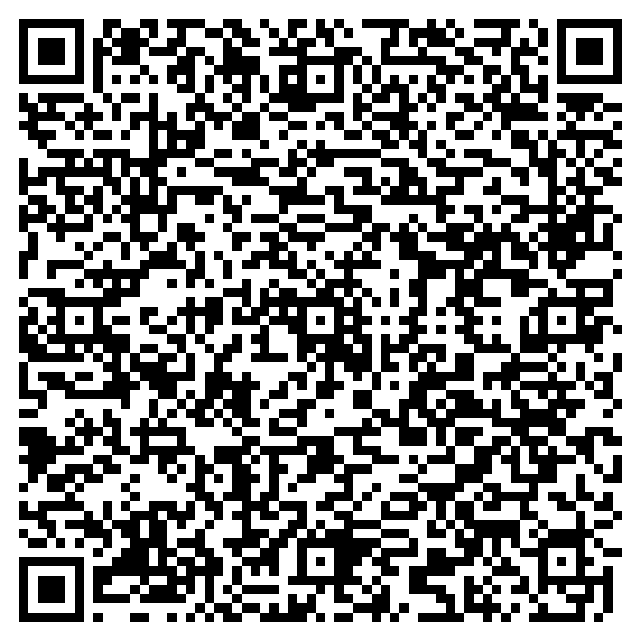
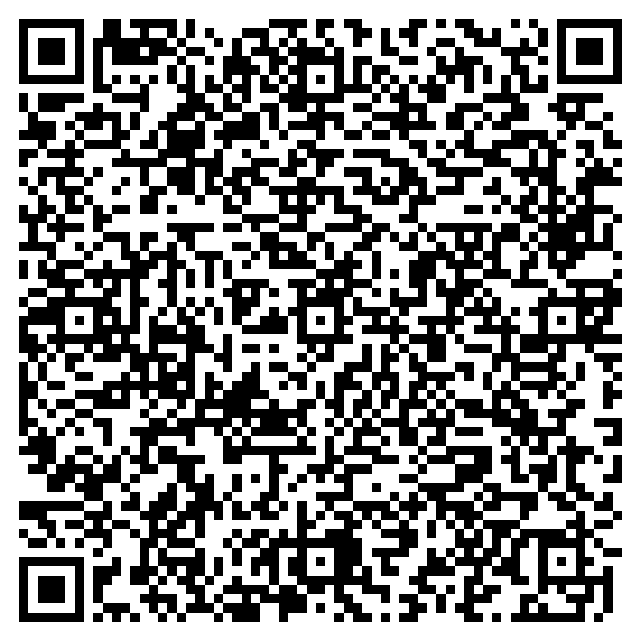
feat(PN-031-F · فاز D): کد تازهٔ مالک صادر شد از URL عمومی — poco-f3-352f68 · QR 640px در ۴ مکان · ۴ لینک ۲۰۰ (bootstrap/QR/QR-APK/APK) · روت QR تنظیمات + code-status زنده · OWNER-GUIDE.html ۲۰۰ · رفع باگ شاهد (درس PN-031-C: print در ریدایرکت heredoc — شاهد JSON معتبر بازسازی شد)

diff --git a/download/pn031e/OWNER-GUIDE.html b/download/pn031e/OWNER-GUIDE.html
@@ -1,0 +1,50 @@
+<!DOCTYPE html>
+<html lang="fa" dir="rtl"><head><meta charset="utf-8">
+<meta name="viewport" content="width=device-width, initial-scale=1">
+<title>راهنمای فعالسازی رلهٔ ملکا — ۲ قدم، ۲ دقیقه</title>
+<style>
+body{font-family:Vazirmatn,Tahoma,sans-serif;background:#f7f8fa;color:#1a2332;max-width:720px;margin:0 auto;padding:24px;line-height:1.9}
+h1{font-size:1.35rem;color:#0d3b66} h2{font-size:1.05rem;margin-top:28px;border-right:4px solid #2a9d8f;padding-right:10px}
+.step{background:#fff;border:1px solid #e3e7ee;border-radius:12px;padding:18px 20px;margin:14px 0}
+.cmd{direction:ltr;text-align:left;background:#0d1b2a;color:#e9f5db;padding:12px 14px;border-radius:8px;font-family:Menlo,Consolas,monospace;font-size:0.82rem;word-break:break-all}
+.note{background:#fff8e7;border:1px solid #f0d98c;border-radius:8px;padding:10px 14px;font-size:0.9rem}
+.ok{color:#2a9d8f;font-weight:bold} .muted{color:#6b7684;font-size:0.85rem}
+img{max-width:280px;border:8px solid #fff;box-shadow:0 2px 10px rgba(0,0,0,.12);border-radius:8px;display:block;margin:10px auto}
+</style></head><body>
+<h1>راهنمای فعالسازی رلهٔ ملکا</h1>
+<p>سلام. این راهنما فقط <b>۲ قدم</b> دارد و حدود <b>۲ دقیقه</b> وقت میگیرد. گوشی باید اینترنت ایران داشته باشد.</p>
+
+<h2>قدم ۱ — نصب (فقط یک بار، برای همیشه)</h2>
+<div class="step">
+در گوشی Poco F3، QR زیر را با دوربین اسکن کنید تا <b>اپ ملکا</b> دانلود و نصب شود (حدود ۵ مگابایت):
+<img src="https://preview-chat-35e0018b-b9e9-411f-88d7-f1f774acfff0.space-z.ai/deliver/pn031e/qr-install.png" alt="QR نصب" width="280">
+<p class="muted">یا مستقیم: <a href="https://preview-chat-35e0018b-b9e9-411f-88d7-f1f774acfff0.space-z.ai/deliver/pn031d/melka-relay.apk">دانلود APK اپ ملکا</a> — هنگام نصب، اجازهٔ «نصب از منابع ناشناس» را بدهید.</p>
+</div>
+<div class="step">
+اگر میخواهید <b>بدون اپ</b> شروع کنید (روش Termux): در گوشی برنامهٔ <b>Termux</b> را باز کنید و این یک خط را پیست و اجرا کنید:
+<div class="cmd">pkg install -y curl openssl jq &amp;&amp; curl -fsSL &quot;https://preview-chat-35e0018b-b9e9-411f-88d7-f1f774acfff0.space-z.ai/api/mobile-relay/bootstrap?code=0fa47ba6fa5b650a4a8cd2d20a0648739124&quot; -o ~/melka-relay.sh &amp;&amp; chmod 600 ~/melka-relay.sh &amp;&amp; bash ~/melka-relay.sh</div>
+<p class="muted">اگر Termux ندارید، از <b>فدورا/گوگلپلی</b> یا F-Droid نصبش کنید. این دستور همهچیز را خودش نصب میکند.</p>
+</div>
+
+<h2>قدم ۲ — تأیید</h2>
+<div class="step">
+<p>اگر پیام <b>«رلهٔ ملکا فعال است»</b> را دیدید، تمام است! 🎉</p>
+<p>سپس در تنظیمات ملکا، بخش «راهاندازی رله»، وضعیت را چک کنید — باید بنویسد <b class="ok">نصب کامل شده ✓</b> و بعد از چند لحظه دستگاه «برخط» شود. دکمهٔ <b>«تست تونل»</b> را بزنید تا اتصال واقعی به ملک تبریز سبز شود.</p>
+</div>
+
+<div class="note">
+<b>اگر خطا دیدید:</b> نگران نباشید — همان دستور را <b>دوباره</b> پیست کنید (کد تا ۳ بار قابل استفاده است).
+اگر پیام «کد منقضی» آمد، کد تازه بگیرید: تنظیمات ملکا ← راهاندازی رله ← دکمهٔ ثبت دستگاه (کد تازه ۳۰ دقیقه اعتبار دارد).
+</div>
+
+<h2>چند نکتهٔ کوچک</h2>
+<div class="step">
+<ul>
+<li>اپ/اسکریپت ساعت گوشی را <b>خودش با سرور همگام</b> میکند — دیگر مشکل اختلاف ساعت بیاثر است.</li>
+<li>گوشی را روی شارژر بگذارید و به Termux/اپ اجازهٔ اجرای پسزمینه بدهید (راهنمای MIUI داخل اپ هست).</li>
+<li>این کد مخصوص دستگاه <span class="muted">poco-f3-352f68</span> است و تا <span class="muted">2026-10-14T08:55:50.921Z</span> معتبر است.</li>
+<li>اگر گوشی ریاستارت شد، اپ خودش دوباره شروع میشود (SelfHeal). در Termux فقط اسکریپت را دوباره اجرا کنید.</li>
+</ul>
+</div>
+<p class="muted">ملکا · نسخهٔ PN-031-E · ساختهٔ GLM — ۱۴۰۵/۰۷/۲۴</p>
+</body></html>
